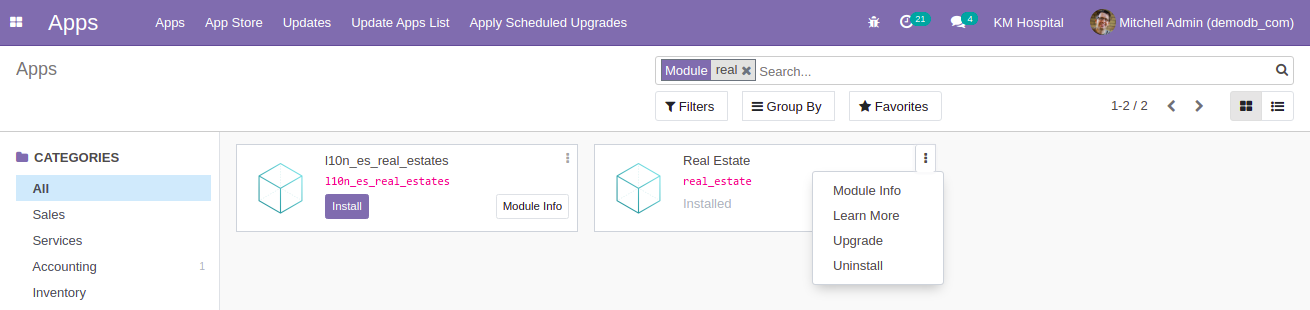
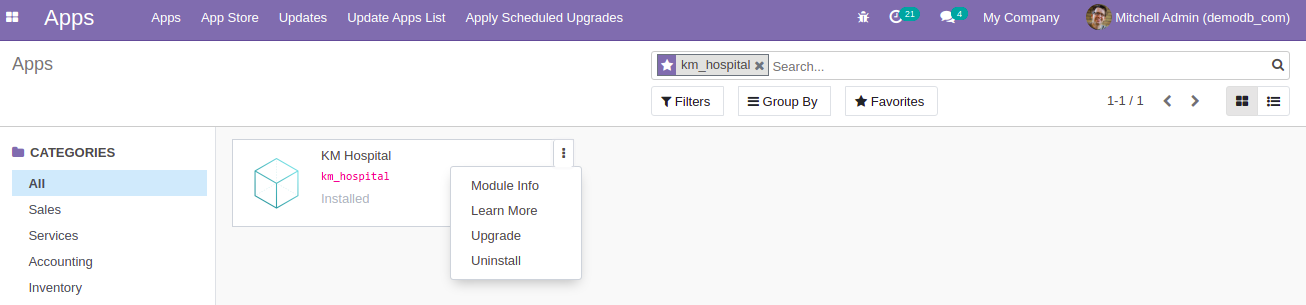
created a new module

diff --git a/pages/2_modelsFields.md b/pages/2_modelsFields.md
@@ -1,6 +1,6 @@
 ## Creating custom Module
 
-- In the `custom_addons` directory create your own module ex.`real_estate` known as technical name. In this module minimum two file is mandatory, one is `__init__.py` and the other is `__manifest__.py`.
+- In the `custom_addons` directory create your own module ex.`real_estate`, `km_hospital` etc. known as technical name. In the module minimum two file is mandatory, one is `__init__.py` and the other is `__manifest__.py`.
 
 - A demo template for `__manifest__.py`:
 
@@ -30,13 +30,80 @@
   }
   ```
 
-  Look up the code: [`__manifest__.py`](https://github.com/KamrulSh/real_estate/blob/main/__manifest__.py)
+  Look up the code and try to implement:
+
+  - [Real Estate `__manifest__.py`](https://github.com/KamrulSh/real_estate/blob/main/__manifest__.py)
+  - [KM Hospital `__manifest__.py`](https://github.com/KamrulSh/km_hospital/blob/main/__manifest__.py)
 
 - Run the odoo server using this command:
   ```sh
   /opt/odoo/odoo14/./odoo-bin --addons-path=/opt/odoo/odoo14/addons,/opt/odoo/odoo14/custom_addons --xmlrpc-port=8014
   ```
-- In the odoo app list search module name `real_estate` and you will find the app. In the `Module Info` you will find all the information given in the `__manifest__.py` file. You can also install and upgrade the app.
+- In the odoo app list search module name `km_hospital` and you will find the app. In the `Module Info` you will find all the information given in the `__manifest__.py` file. You can also install and upgrade the app.
 
   ![module1](../images/module1.png)
   ![module2](../images/module2.png)
+
+## Directory structure of odoo modules
+
+- Here is the general structure of a module. Ex. `km_hospital`
+
+  ![module3](../images/module3.png)
+
+  - `controllers`: contains (.py) files and all the requests are handled from the browsers and pass to server.
+  - `models`: contains all the python (.py) files
+  - `reports`: contains python and xml file to create and design report.
+  - `security`: holds access rights of the models.
+  - `views`: contains all the `.xml` files for different views
+  - `wizard`: contains python and xml file to create a modal window.
+  - `__init__.py`: contains import statements linking to folders and files in the module.
+  - `__manifest__.py`: the root of the module that describe essential information about the module.
+
+- [Check Detailed Odoo Module Structure](https://speedysense.com/odoo-module-structure/)
+
+## Creating new models
+
+- For creating a model first create a folder named `models` and import this from outer `__init__.py`.
+
+  ```py
+  from . import models
+  ```
+
+- In the `models` folder create another `__init__.py` and a python model file named `patient.py` and import that file from the `__init__.py`. All the python model files have to be imported from the `__init__.py`.
+
+  ```py
+  from . import patient
+  ```
+
+  - [Check the models directory of km_hospital](https://github.com/KamrulSh/km_hospital/tree/main/models)
+
+- Create a base class in `patient.py` and it inherits the odoo `Model` as regular database-persisted models. Here `_name` is the model name that is required to identify the model and a table will be created in the postgresql database with the name `kmhospital_patient`, by replacing `.` to `_`.
+
+  ```py
+  from odoo import api, models, fields
+
+  class HospitalPatient(models.Model):
+    _name = 'kmhospital.patient'
+    _description = 'Hospital Patient'
+
+    name = fields.Char(string='Patient Name', required=True)
+    address = fields.Char(string='Address')
+    gender = fields.Selection([
+        ('male','Male'),
+        ('female', 'Female')
+    ], default="male")
+  ```
+
+- Fields are used to define what the model can store in the database table. Many types of data can be stored - `Integer, Float, Char, Boolean, Text, Selection, Binary, Datetime` etc.
+
+  - [Different types of fields in patient](https://github.com/KamrulSh/km_hospital/blob/69d0f3be27273ec24aaa3cdc3a25f6d84566adbe/models/patient.py#L5-L19)
+  - [Different types of fields in realEstate](https://github.com/KamrulSh/real_estate/blob/068eb99fa50b13223c99f850bca524c92abaebf4/models/realEstate.py#L6-L34)
+
+- Restart the server and upgrade the module and then go to `Settings > Technical > Models`. Search using model name and you will get the model. In this model fields will be created based on the `fields` defined in the model and some predefined fields will also be created.
+
+  ![module4](../images/module4.png)
+  ![module5](../images/module5.png)
+
+### Hurrah !!! You have created a new module.
+
+## 🚀 Happy Coding ! 🔥
